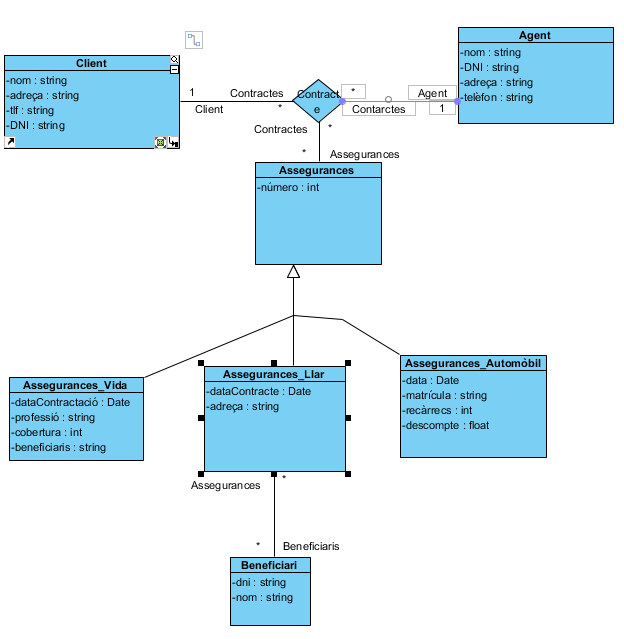
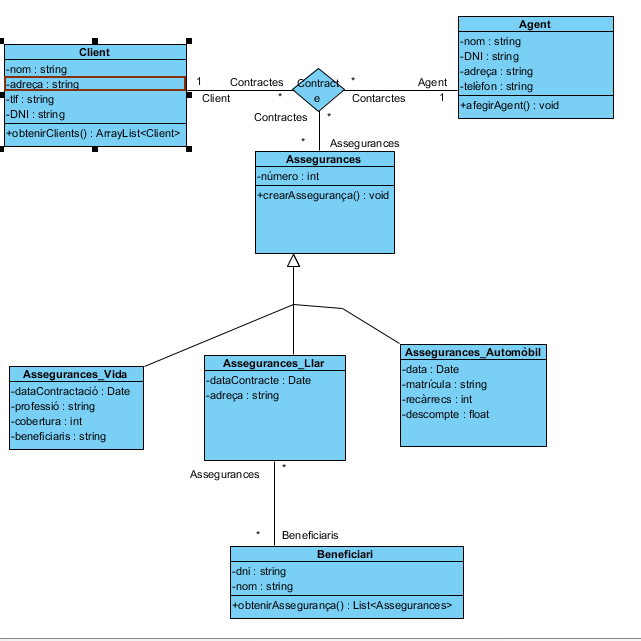
E

diff --git a/Tres Exercicis/Exercici2/Java/Client.java b/Tres Exercicis/Exercici2/Java/Client.java
@@ -40,4 +40,9 @@ public class Client {
 		this.DNI = DNI;
 	}
 
+	public ArrayList<Client> obtenirClients() {
+		// TODO - implement Client.obtenirClients
+		throw new UnsupportedOperationException();
+	}
+
 }
